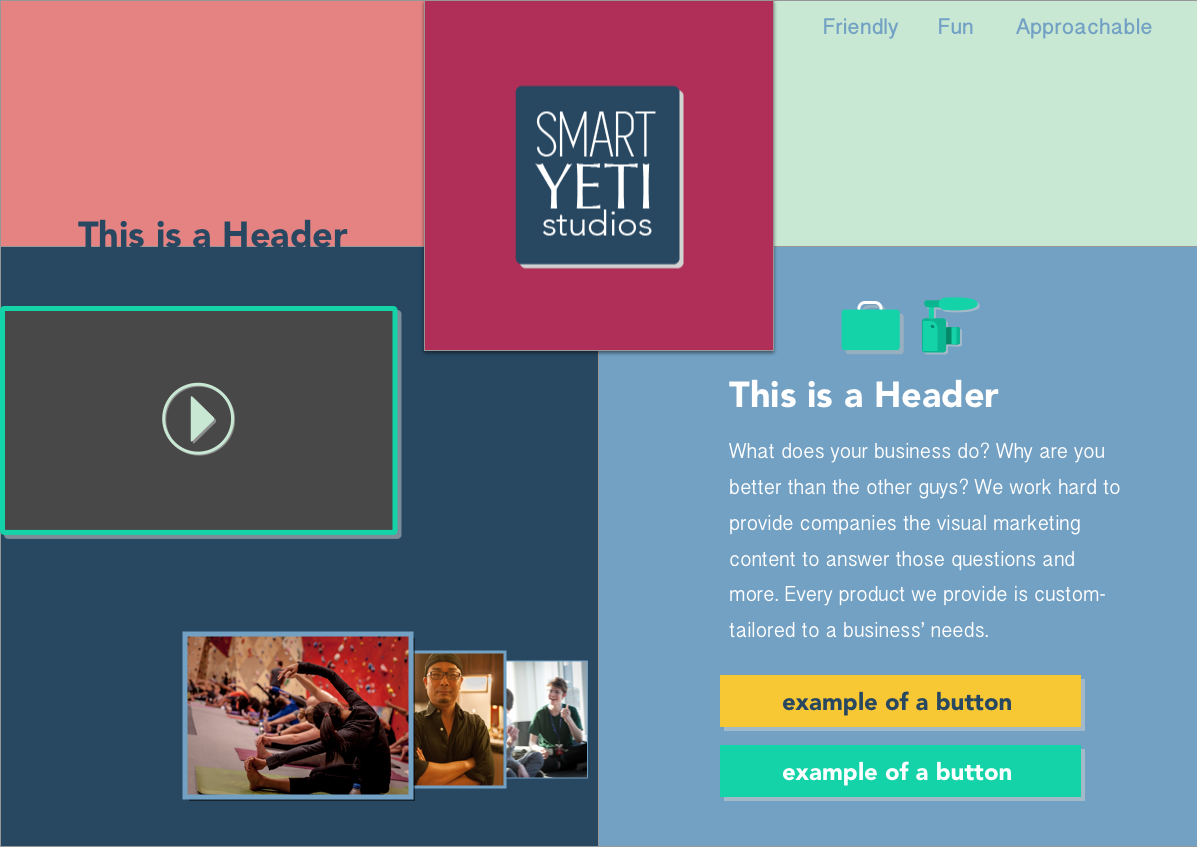
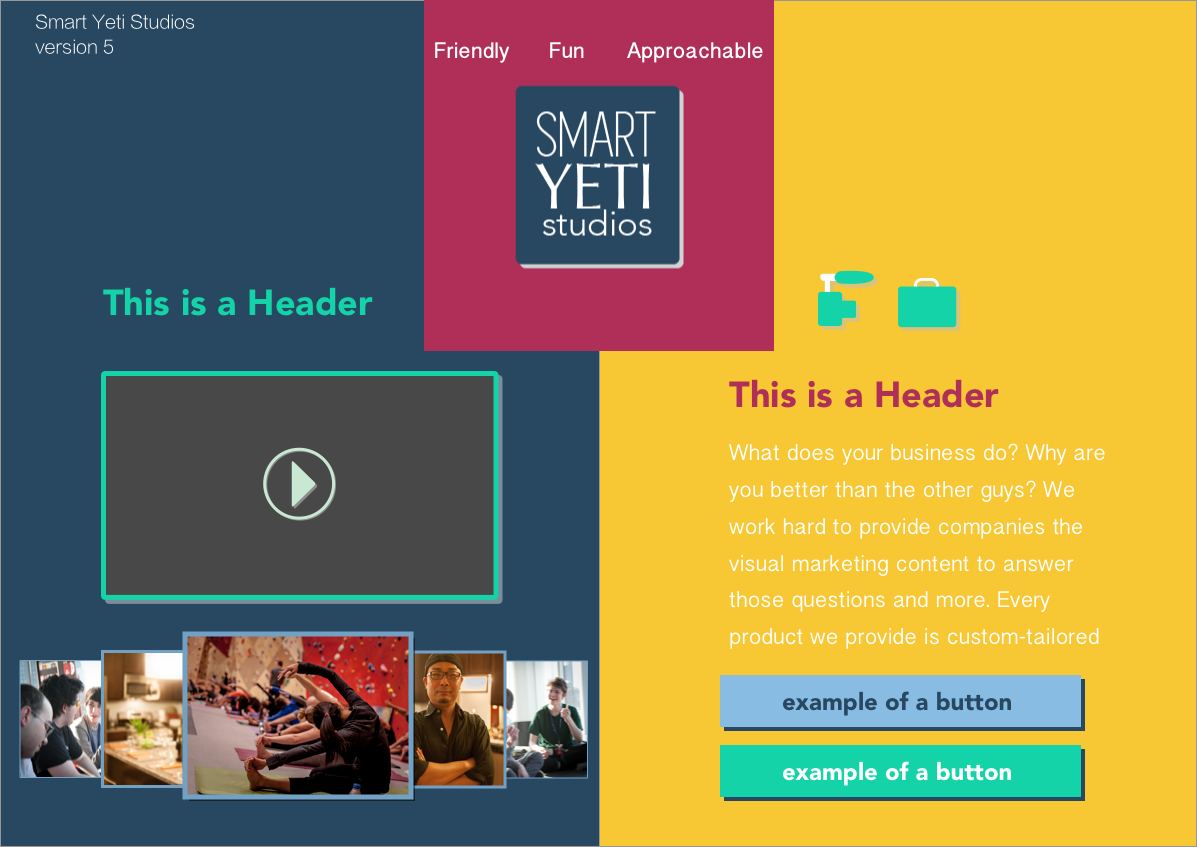
sms style tiles

diff --git a/smart_yeti.html b/smart_yeti.html
@@ -181,8 +181,8 @@
                         <img class="images styleTiles img-responsive" src="portfolio-pages/sms/style_tile_v2.png" alt="">
                         <img class="images styleTiles img-responsive" src="portfolio-pages/sms/style_tile_v3.png" alt="">
                         <img class="images styleTiles img-responsive" src="portfolio-pages/sms/style_tile_v4.png" alt="">
+                        <img class="images styleTiles img-responsive" src="portfolio-pages/sms/style_tile_v5.png" alt="">
                         <img class="images styleTiles img-responsive" src="portfolio-pages/sms/style_tile_v6.png" alt="">
-                        <img class="images styleTiles img-responsive" src="portfolio-pages/sms/style_tile_v7.png" alt="">
                     </div>
                      <div class="service-box">
                          <h3>Final Style Tile</h3>

diff --git a/css/project.css b/css/project.css
@@ -144,7 +144,7 @@ p {
 }
 .styleTiles{
     display: inline-block;
-    width: 170px;
+    width: 350px;
     margin: 10px 10px 30px;
 }
 
